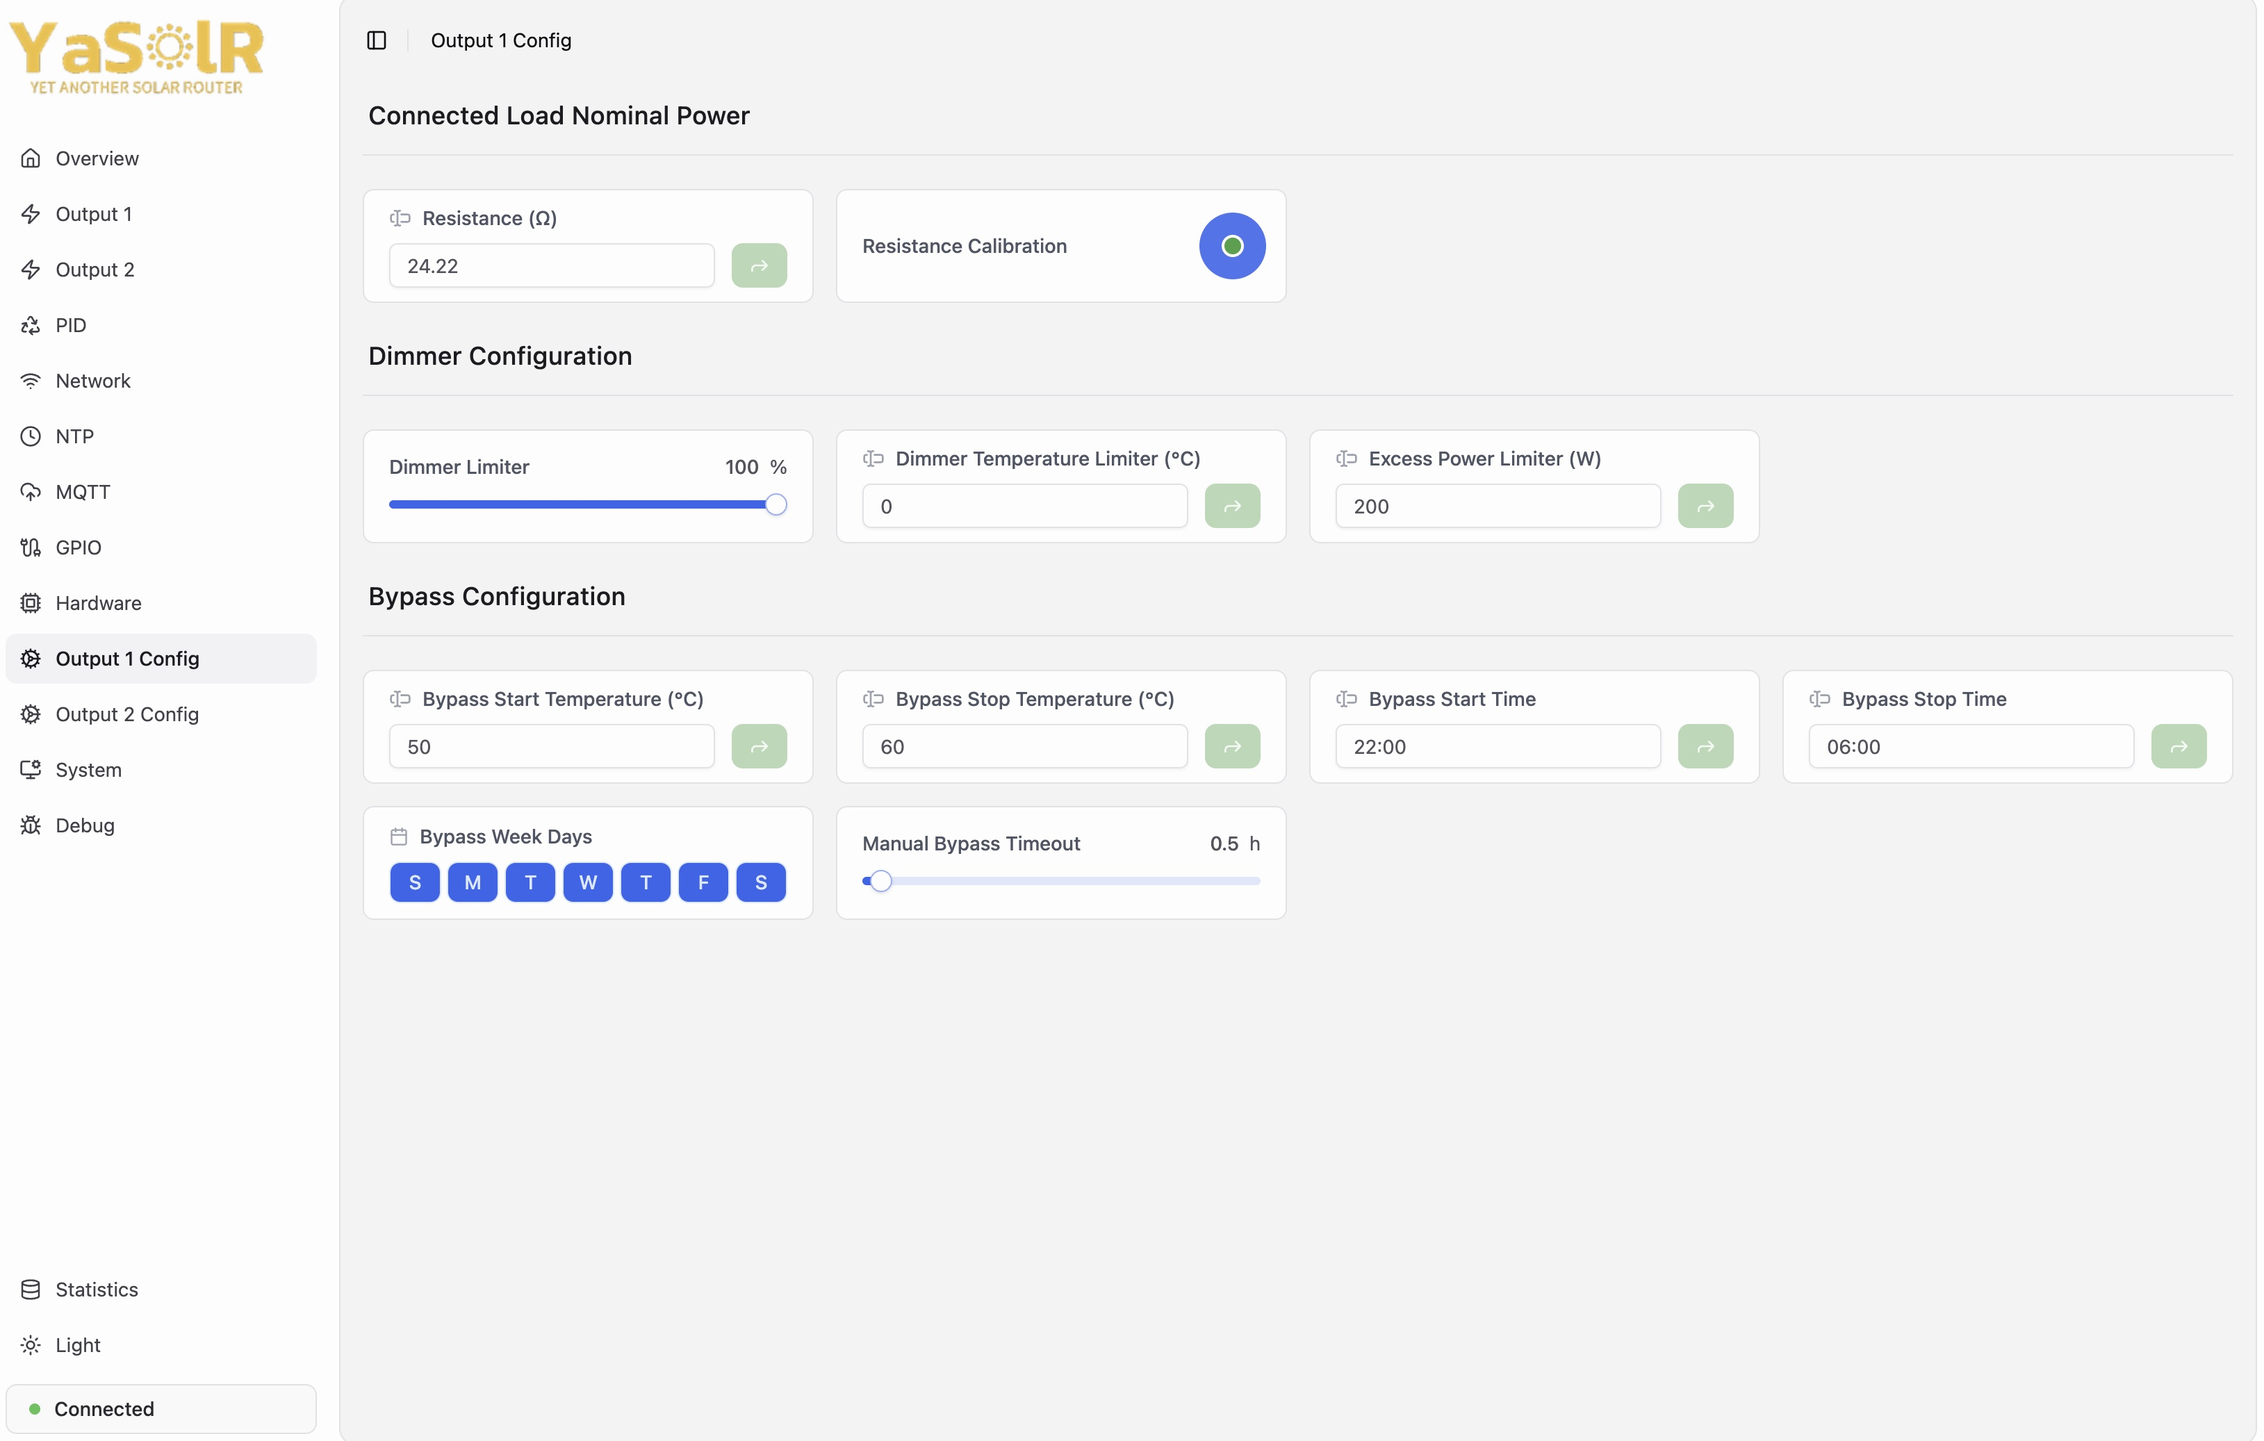
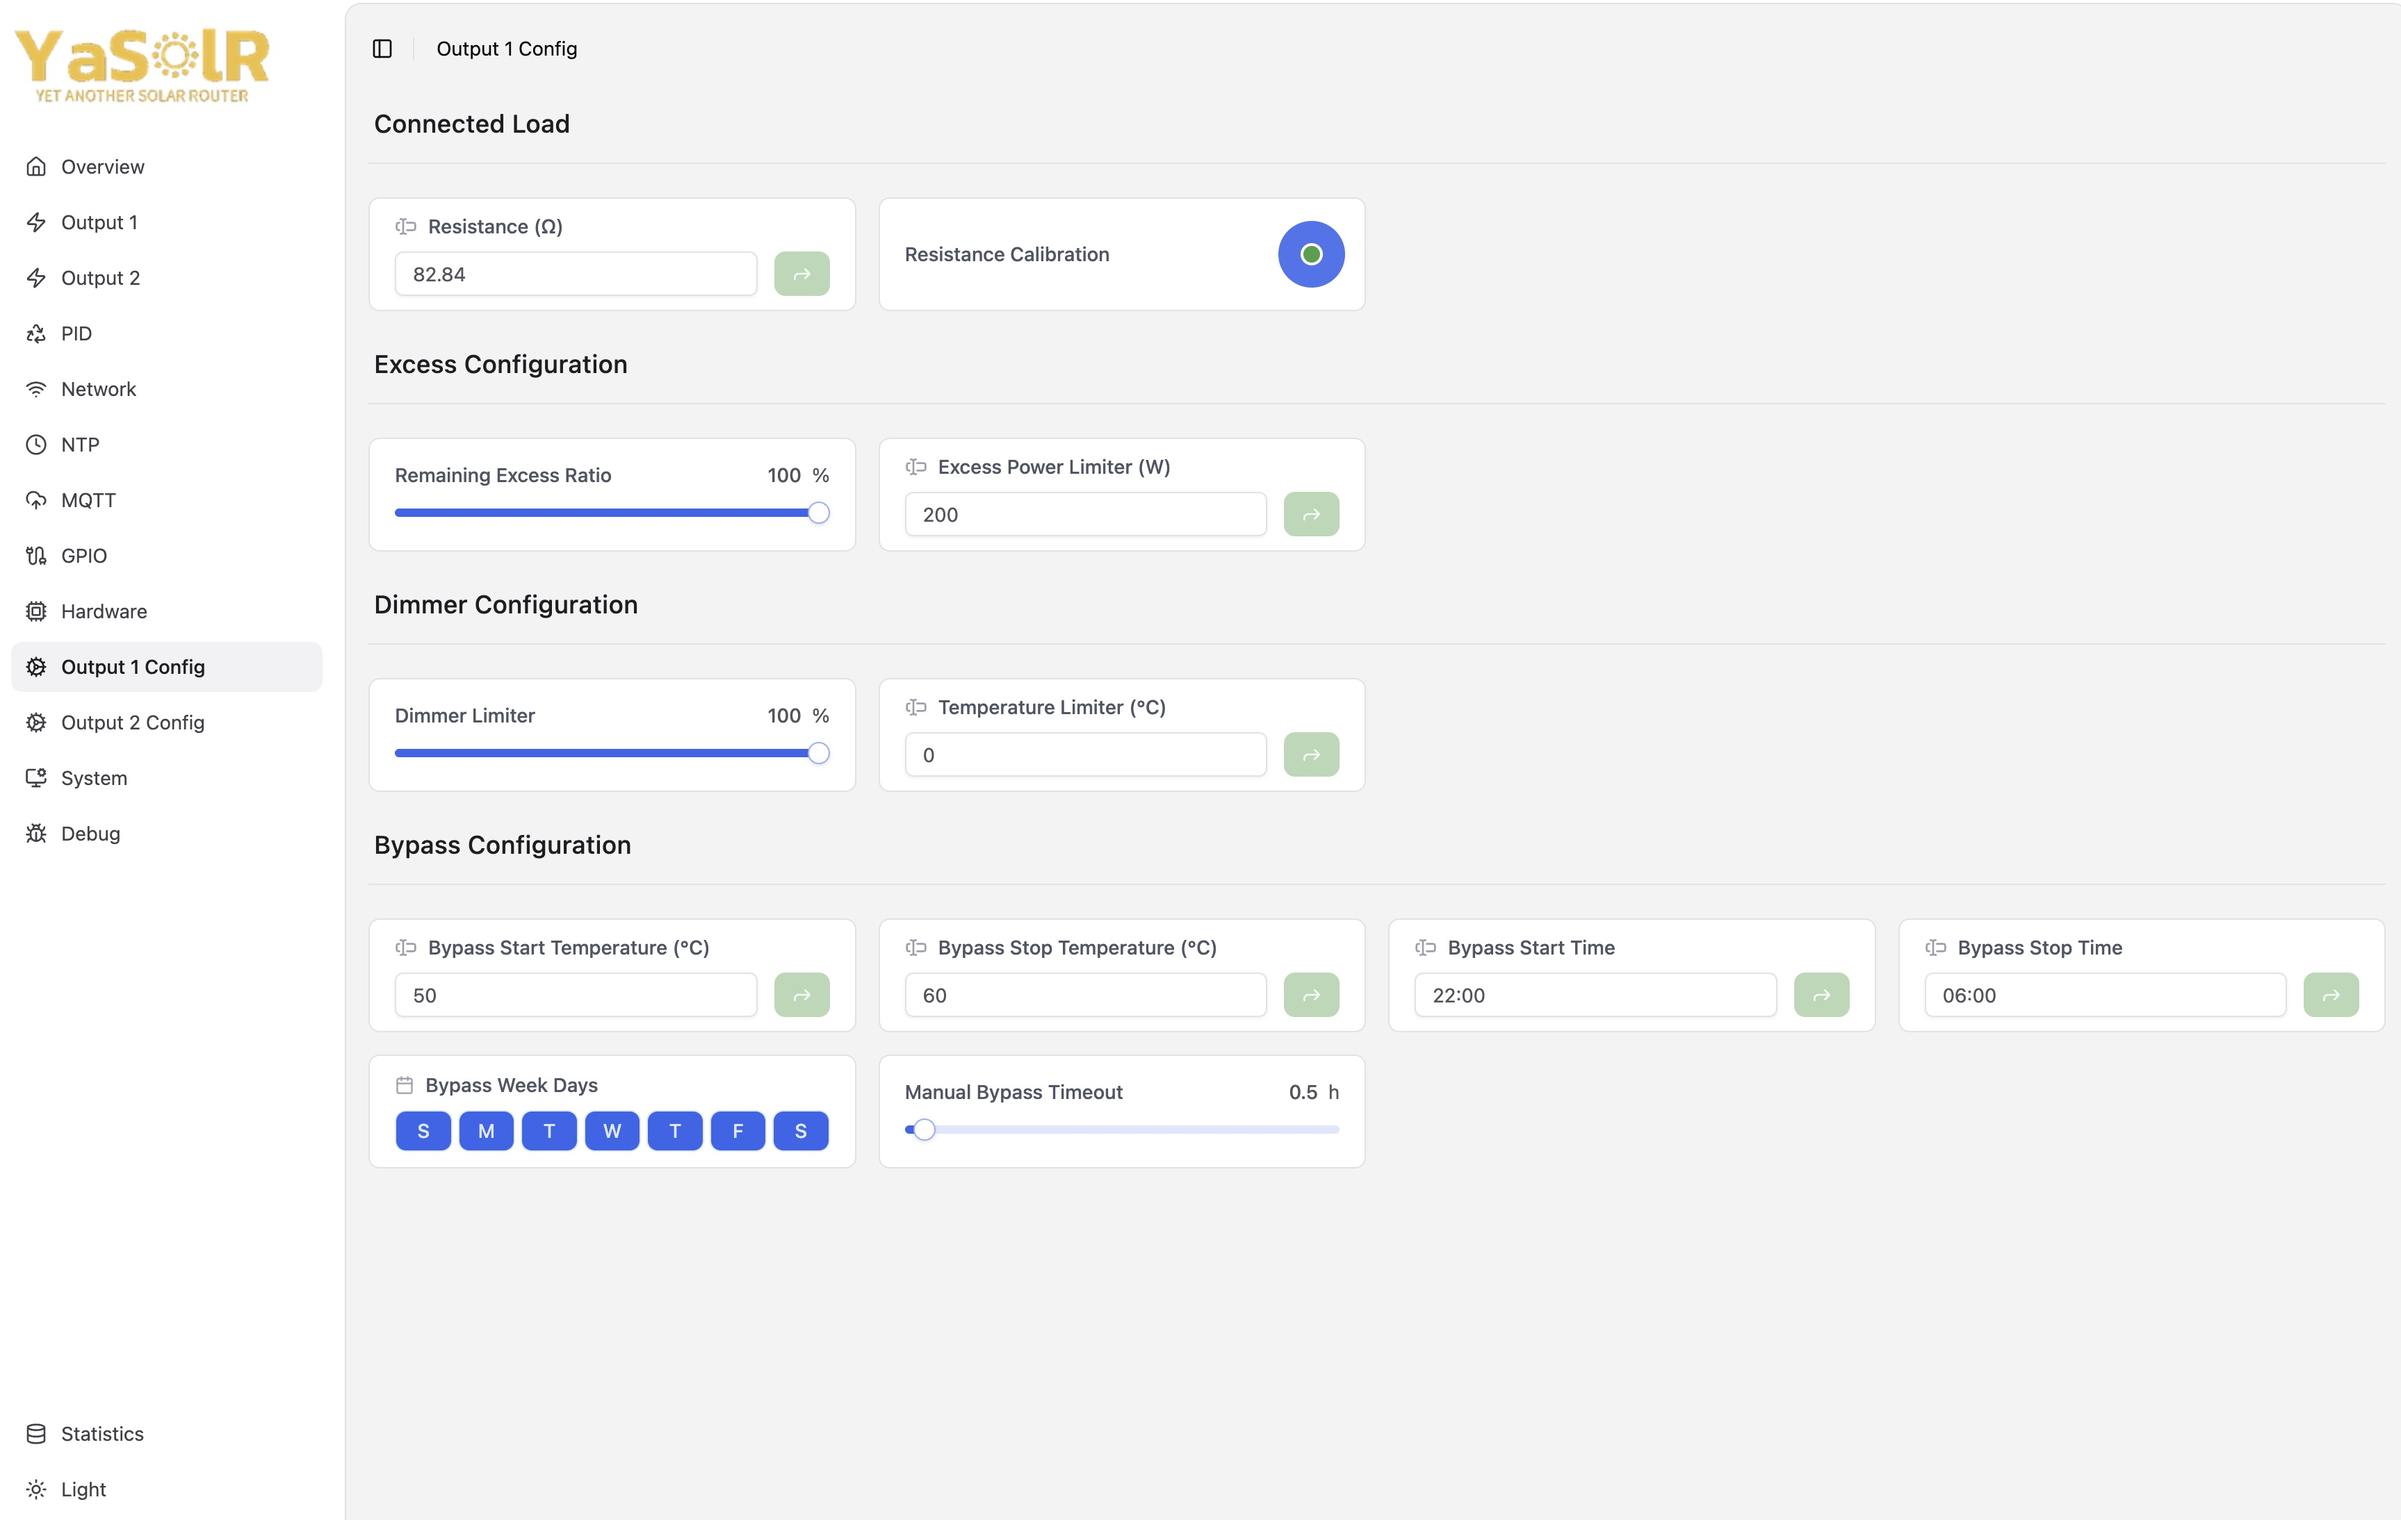
update doc

diff --git a/docs/manual.md b/docs/manual.md
@@ -41,6 +41,7 @@ description: Manual
     - [Display](#display)
   - [Output 1 and 2 Config](#output-1-and-2-config)
     - [Resistance Calibration](#resistance-calibration)
+    - [Excess Configuration](#excess-configuration)
     - [Dimmer Configuration](#dimmer-configuration)
     - [Bypass Configuration](#bypass-configuration)
   - [System](#system)
@@ -980,17 +981,35 @@ Any previously set value will be erased.
 To use this feature, make sure that the resistance will really draw some current.
 It won't work if the water heater has already reached its threshold temperature.
 
+#### Excess Configuration
+
+Excess Configuration allows to configure how the excess power is routed to the outputs.
+
+- `Excess Ratio`: allows to split the excess power between output 1 and output 2.
+  For example, if set to `70%`, then output 1 will take 70% of the excess power and output 2 will take the remaining 30%.
+  This setting is only applied in automatic mode when routing.
+  This setting is also available in output 2 if you want to reduce its share.
+  For example, if you want to assign 50% of the excess to output 1 and 25% to output 2, you can set output 1 to `50%` and output 2 to `50%` (which means 50% of the remaining 50%, so 25% of the total).
+
+- `Excess Power Limiter (W)`: Allows to set a hard limit on the grid excess assigned to an output.
+  Only available in automatic mode.
+  For example, if output 1 is set to `500 W`, then output 1 will take at most `500 W` of the grid excess.
+  Output 2 will be dimmed with the remaining excess.
+  A value of `0` means that the excess power limiter is disabled.
+
+These 2 settings are cumulative: first the excess ratio is applied, then the excess power limiter is applied.
+
+For example, if the grid excess is `2000 W`, output 1 is set to `70%` and has an excess power limiter of `1000 W`, then:
+
+- output 1 will take `70%` of `2000 W`, which is `1400 W`, but because of the excess power limiter, it will be limited to `1000 W`
+- output 2 will take the remaining excess, which is `2000 W - 1000 W = 1000 W`
+
 #### Dimmer Configuration
 
 - `Dimmer Limiter`: Slider to limit the level of the dimmer in order to limit the routed power.
 - `Dimmer Temperature Limiter`: Temperature threshold when the dimmer will stop routing.
   This temperature can be different than the temperature used in auto bypass mode.
   A value of `0` means that the temperature limiter is disabled.
-- `Excess Power Limiter (W)`: Allows to share the remaining grid excess to the second output.
-  Only available in automatic mode.
-  For example, if output 1 is set to `500 W`, then output 1 will take at most `500 W` of the grid excess.
-  Output 2 will be dimmed with the remaining excess.
-  A value of `0` means that the excess power limiter is disabled.
 
 #### Bypass Configuration
 
